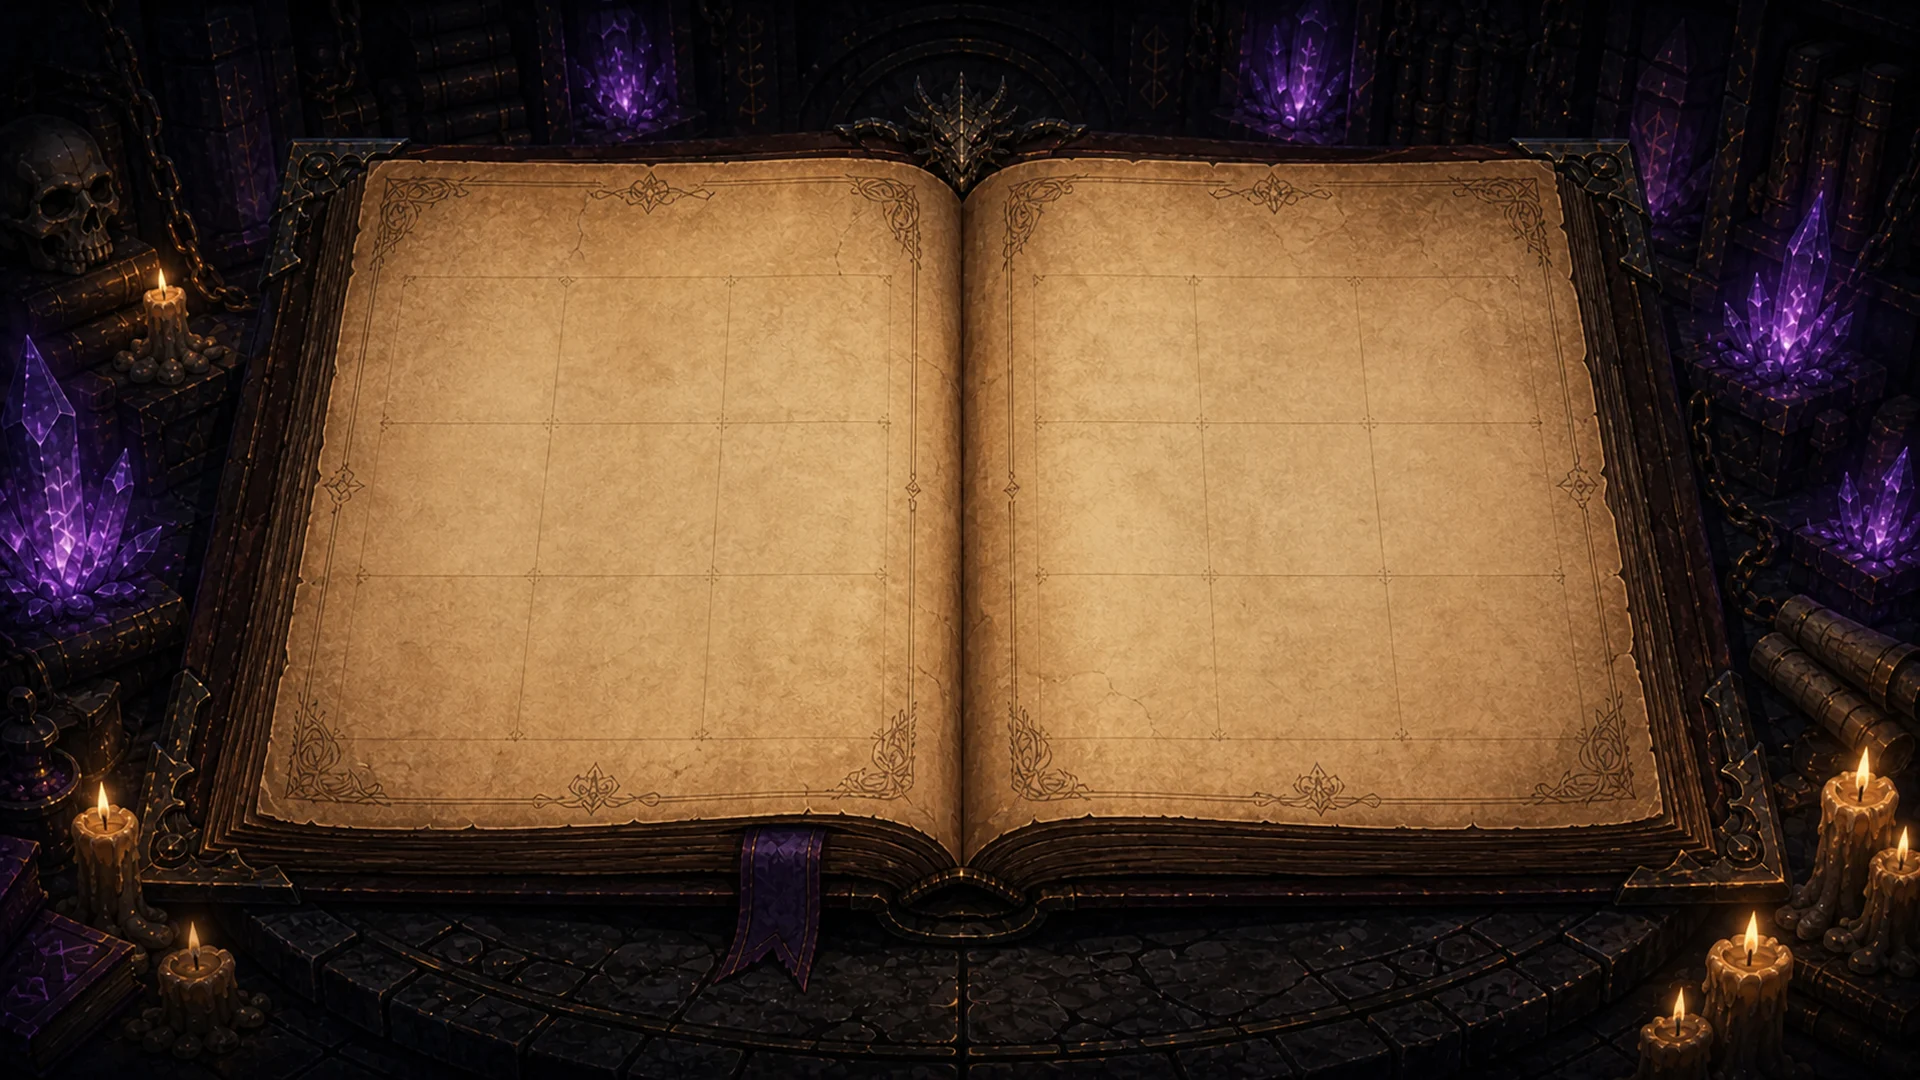
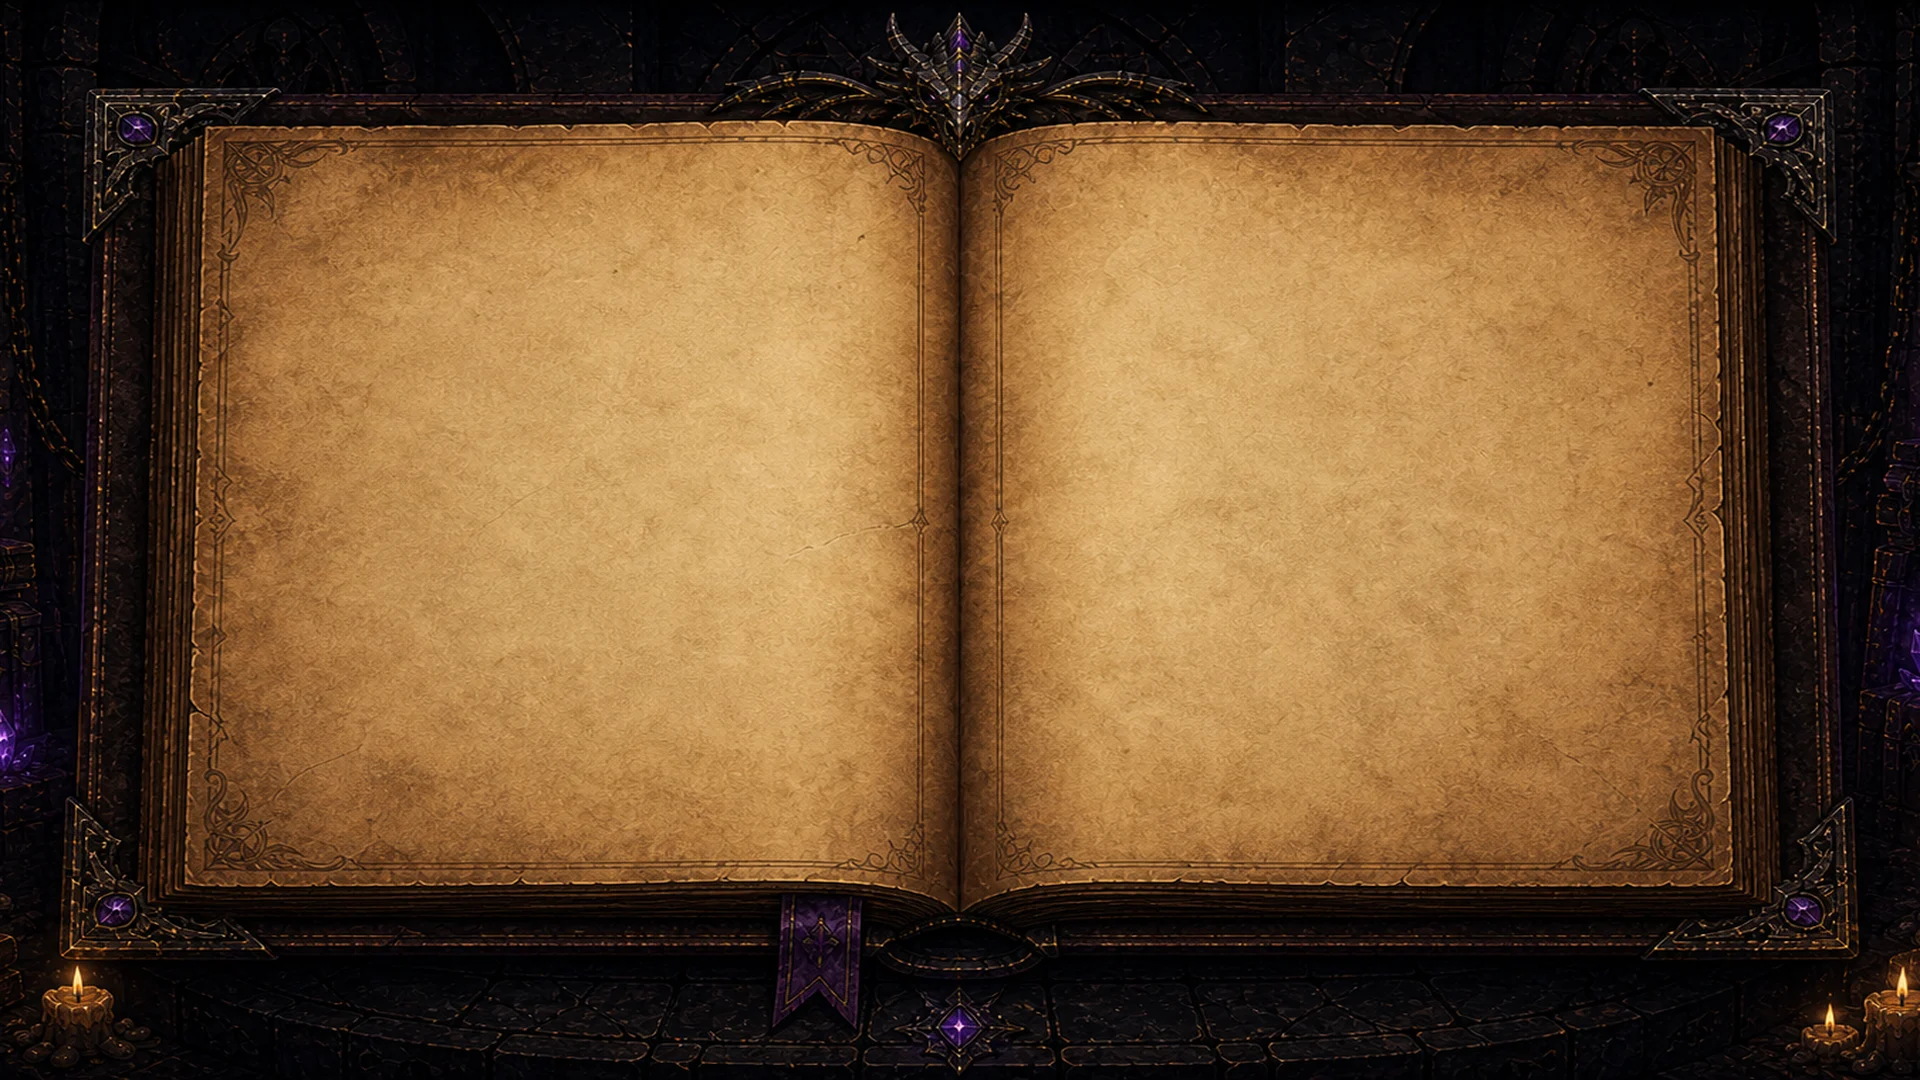
Use upright plain codex book background

diff --git a/src/config.js b/src/config.js
@@ -1485,10 +1485,10 @@ export const CONFIG = {
   PREP_MERGE_TOOLTIP_HEIGHT: 36,
   // Height of the Merge hover tooltip.
 
-  CODEX_LEFT_PAGE_X: 86,
+  CODEX_LEFT_PAGE_X: 82,
   // Left edge of the usable left parchment page.
 
-  CODEX_RIGHT_PAGE_X: 492,
+  CODEX_RIGHT_PAGE_X: 472,
   // Left edge of the usable right parchment page.
 
   CODEX_PAGE_Y: 66,
@@ -1503,10 +1503,10 @@ export const CONFIG = {
   CODEX_COLUMNS_PER_PAGE: 4,
   // Number of dragon columns shown on each open-book page.
 
-  CODEX_CELL_WIDTH: 84,
+  CODEX_CELL_WIDTH: 88,
   // Codex cell width.
 
-  CODEX_CELL_HEIGHT: 100,
+  CODEX_CELL_HEIGHT: 104,
   // Codex cell height.
 
   CODEX_COLUMN_GAP: 8,
@@ -1515,16 +1515,16 @@ export const CONFIG = {
   CODEX_ROW_GAP: 6,
   // Vertical gap between codex rows.
 
-  CODEX_DRAGON_RADIUS: 19,
+  CODEX_DRAGON_RADIUS: 20,
   // Portrait radius inside an unlocked codex cell.
 
-  CODEX_PORTRAIT_Y_OFFSET: 28,
+  CODEX_PORTRAIT_Y_OFFSET: 30,
   // Portrait offset inside a codex cell.
 
-  CODEX_NAME_Y_OFFSET: 66,
+  CODEX_NAME_Y_OFFSET: 70,
   // Name offset inside a codex cell.
 
-  CODEX_TIER_Y_OFFSET: 86,
+  CODEX_TIER_Y_OFFSET: 91,
   // Tier label offset inside a codex cell.
 
   CODEX_FOOTER_Y: 464,
@@ -1533,10 +1533,10 @@ export const CONFIG = {
   CODEX_BOOK_CONTENT_RIGHT: 864,
   // Right edge of the writable parchment area.
 
-  CODEX_BOOK_GUTTER_LEFT: 466,
+  CODEX_BOOK_GUTTER_LEFT: 462,
   // Left edge of the book gutter that codex cells should avoid.
 
-  CODEX_BOOK_GUTTER_RIGHT: 494,
+  CODEX_BOOK_GUTTER_RIGHT: 470,
   // Right edge of the book gutter that codex cells should avoid.
 
   CODEX_BOOK_CONTENT_BOTTOM: 410,